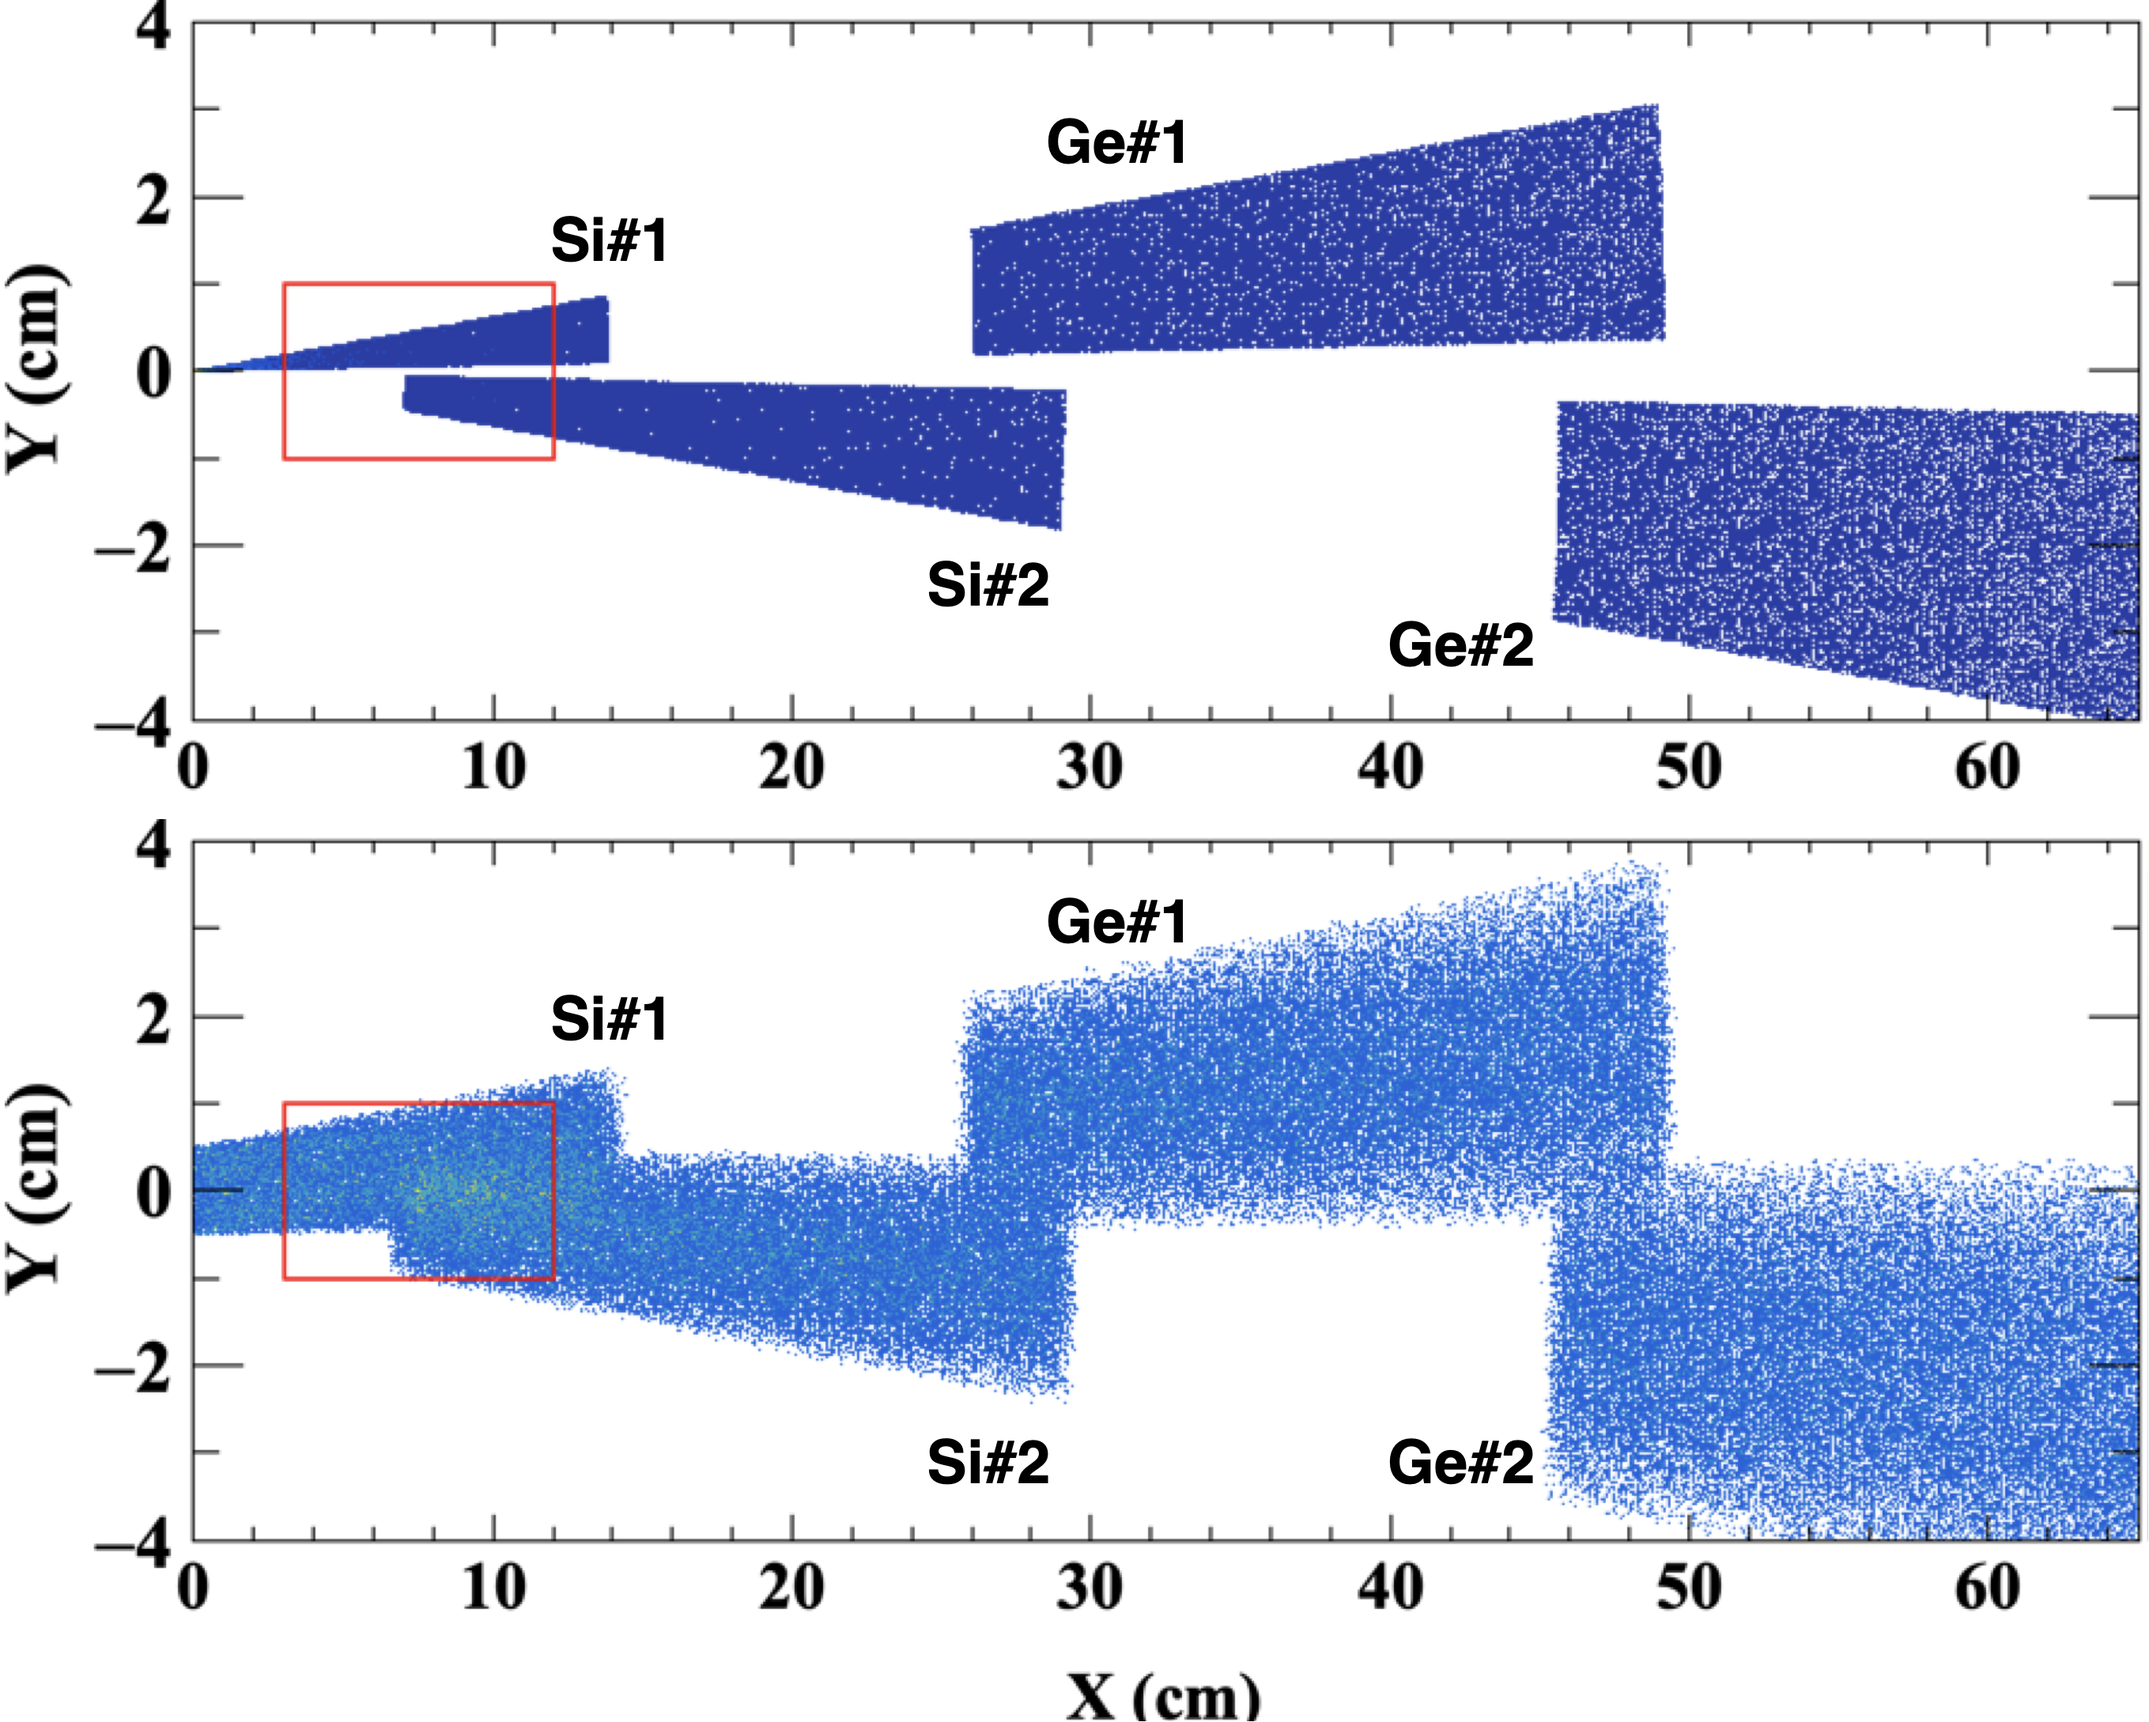
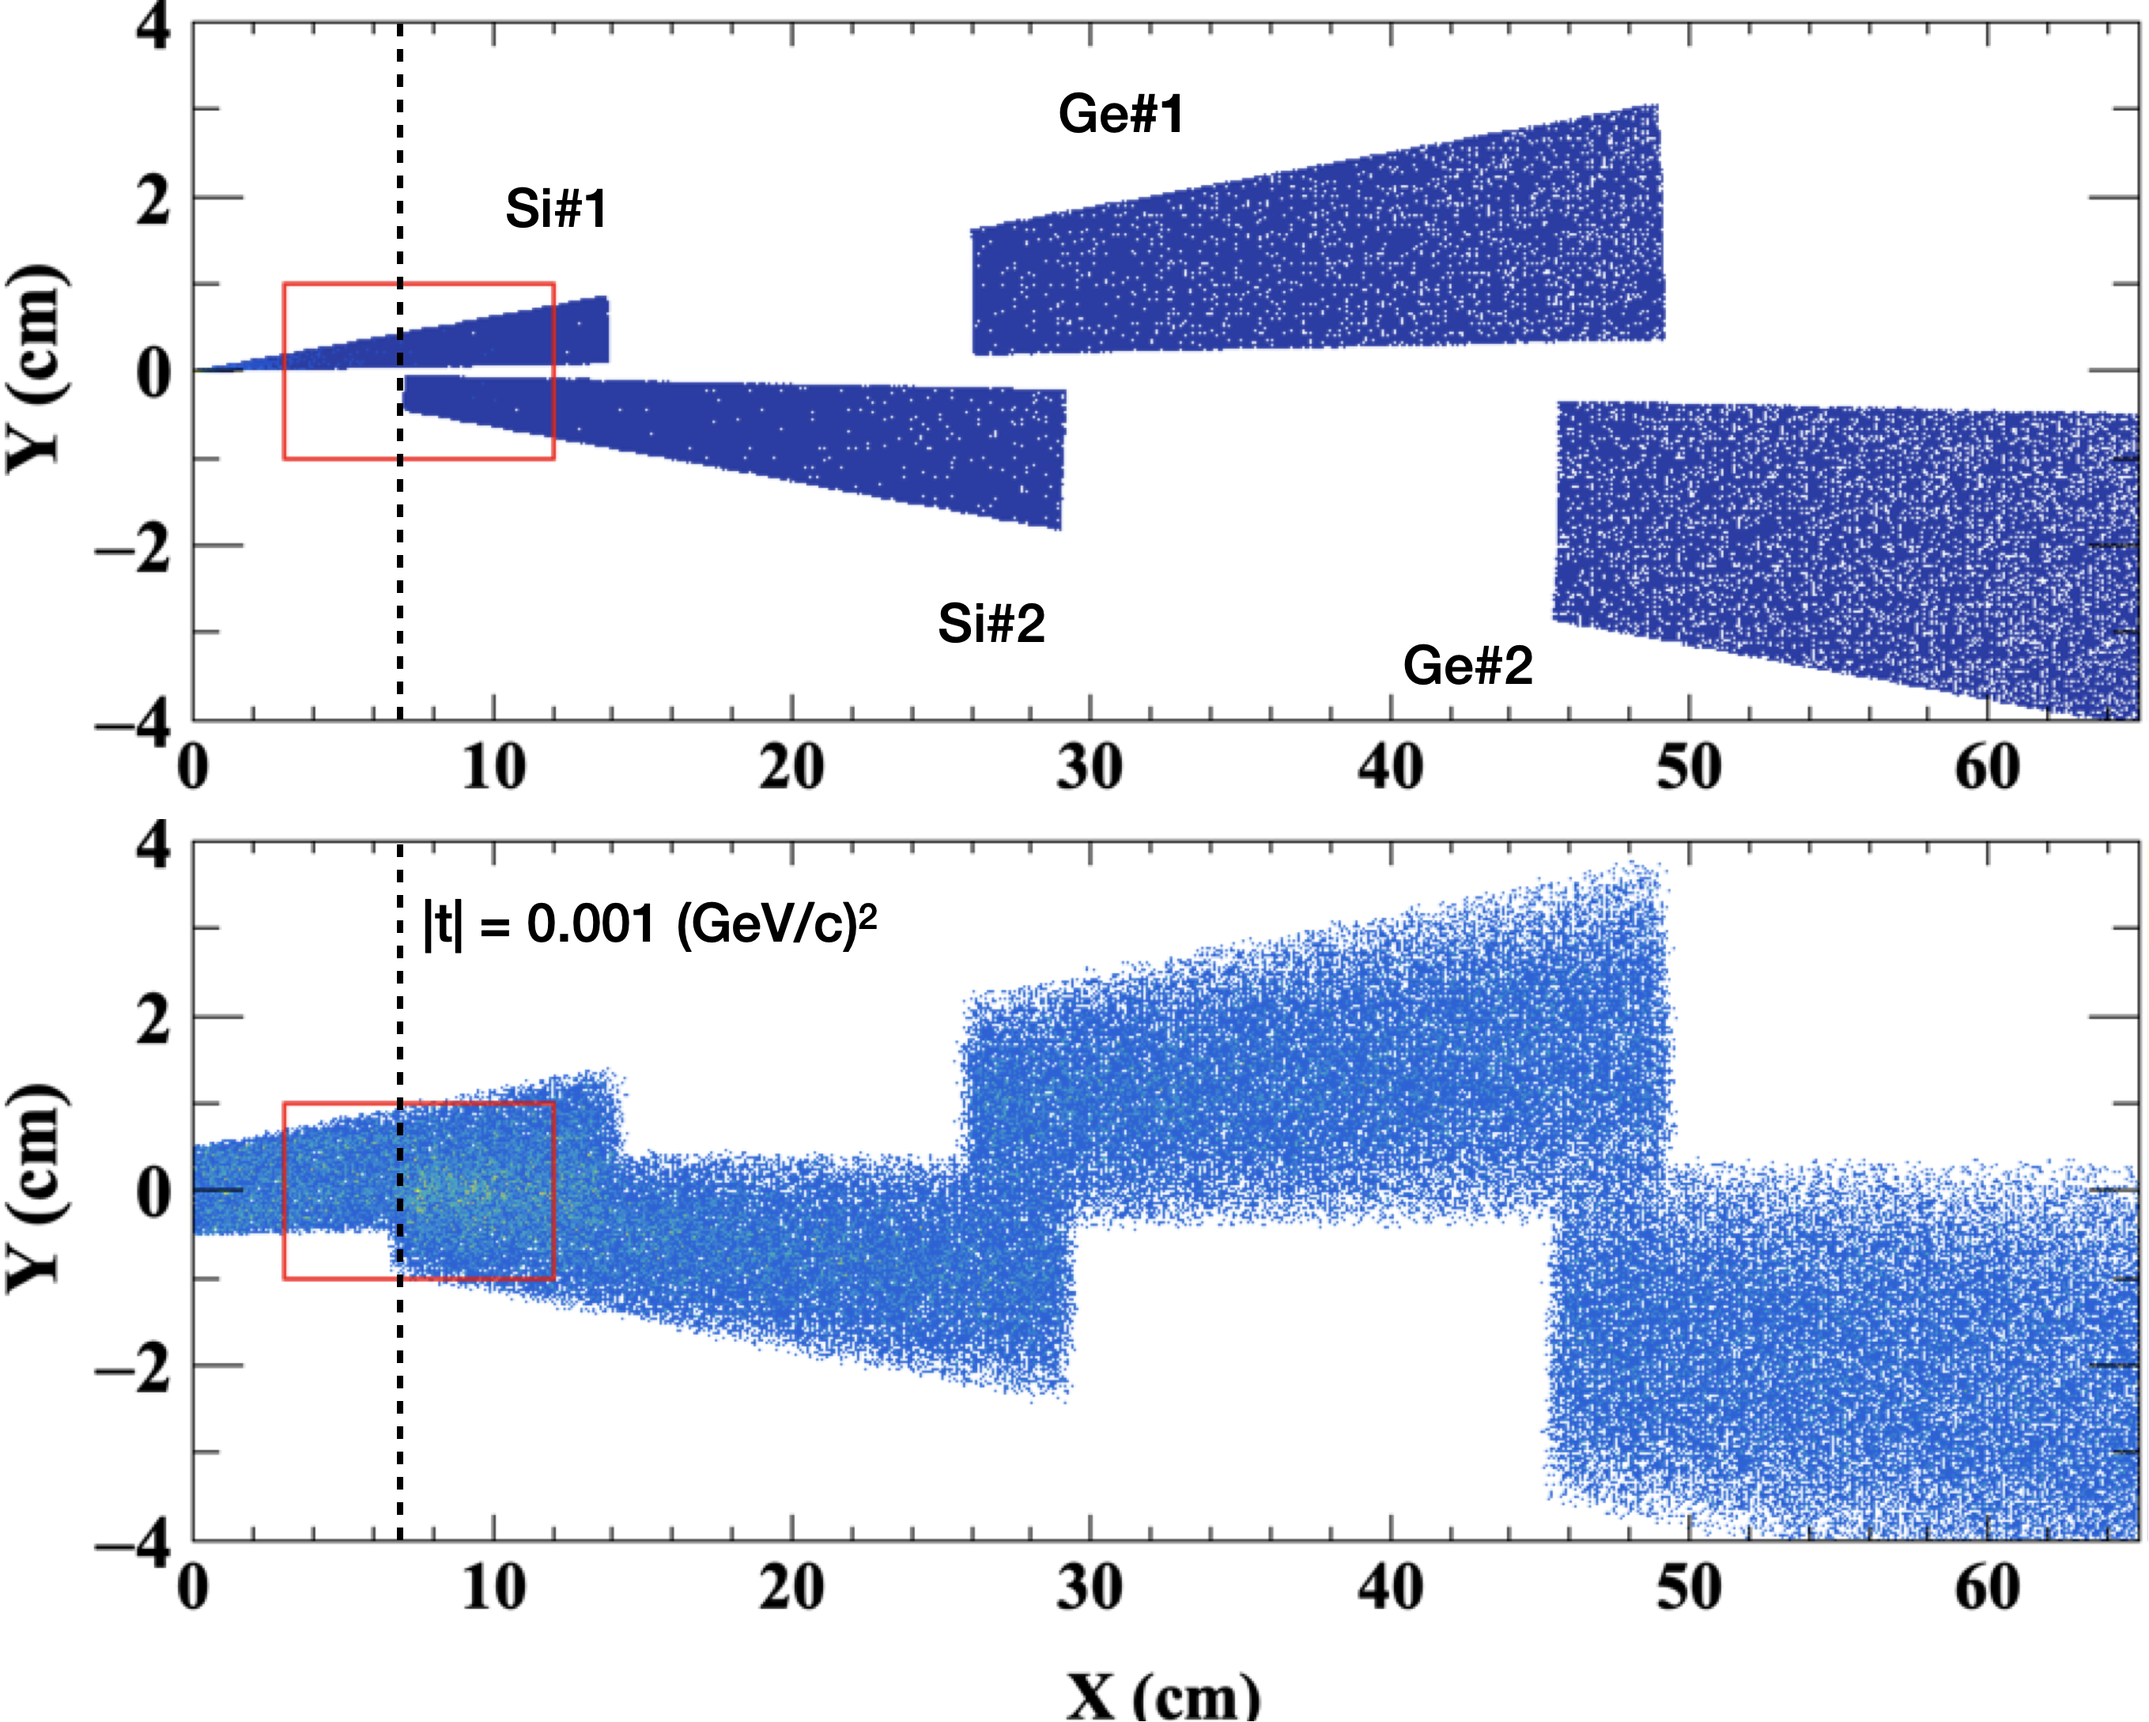
[Modify] sec.2 fwd section

diff --git a/daq/nim.tex b/daq/nim.tex
@@ -285,25 +285,34 @@ More technical information and the detailed performance tests of the recoil dete
 \subsection{Forward detector}
 \label{sec:fwd}
 
-The forward detector aims to detect the elastically scattered beam proton and measure its arrival time.
+The forward detector aims to detect the elastically scattered beam proton in the
+forward direction and measure its arrival time.
+
 As shown in Fig. \ref{fig:setup}, it consists of 8 detector modules, which are grouped into 2 layers and 4 pairs.
 The 4 pairs are installed symmetrically on +X, -X, +Y and -Y axis, with the same
 distance of \SI{3}{\mm} away from the beam pipe center.
 The first layer of each pair are installed \SI{4.6}{\meter} away from the
 beam-target center, and the seperation between the two layer is \SI{20}{\cm}.
-Only the pair on -X is used for conincidence detection.
+Only the pair on -X is used for the conincidence measurement with the recoil detector.
 The other 3 pairs are used for beam position tuning during beam preparation and
 monitoring during the experiment.
-Each module is made of plastic scintillator (Bicron BC-408
-\cite{bc408}) with the dimension $90 (length) \times 20 (width) \times 6
-(thickness) \si{\mm\tothe{3}}$.
-This gives an acceptance of the scattering angle $\SI{0.37}{\degree} < \theta < \SI{1.49}{\degree}$.
-Fig. \ref{fig:forward_acceptance} shows the covered region of the forward detector with an ideal point beam of \SI{2.2}{\momentum}.
+
+Each detector module is made of plastic scintillator BC-408 \cite{bc408} with the dimension $90 (length) \times 20 (width) \times 6
+(thickness)\,\si{\mm\tothe{3}}$.
+% This corresponds to an angular acceptance of $\SI{0.37}{\degree} < \theta < \SI{1.49}{\degree}$.
+The length of the scintillator guarantees the required coverage
+from \SI{0.0008}{\tmom} to \SI{0.001}{\tmom} longitudinally over the COSY energy range.
+However, the cross-sectional coverage, \textit{i.e.}, the coverage of the full length of
+the recoil detector strips, depends not only on the beam energy but also on the
+size of beam profile.
+Fig. \ref{fig:forward_acceptance} shows an example of the impact of beam emittance on the
+effective cross-sectional coverage.
+The fully-covered area on the recoil detector shrinks with the increasing of beam emittance. 
 \begin{figure}[htbp]
   \centering
   \includegraphics[width=0.45\textwidth]{./fwd_acceptance.png}
   \caption{
-    Hit position distribution of the scattering proton on the X-Y plane at \SI{4.6}{\meter}
+    Hit position distribution of the elastically scattered proton on the X-Y plane at \SI{4.6}{\meter}
     from the beam-target center. The results are from the simulation of \SI{2.2}{\momentum}
     $pp$ elasitc scattering with an uniform spherical distribution in the
     center-of-mass reference frame: up) ideal point beam; down) $\SI{10}{\mm}\times\SI{10}{\mm}$ box beam profile.
@@ -311,16 +320,26 @@ Fig. \ref{fig:forward_acceptance} shows the covered region of the forward detect
     % the recoil proton hits one of the recoil sensors.
     The four blue blocks are from the events in which the recoil proton hits one of
     the four recoil sensors.
-    The red square indicates the size of the forward scintillator, i.e. the covered
-    region on the recoil detector by the forward detector.}
+    The red square indicates the dimension of the forward detector scintillator
+    and the vertical dashed line indicates the hit position when $|t| = \SI{0.001}{\tmom}$.}
   \label{fig:forward_acceptance}
 \end{figure}
-Most strips on Si1 and a small fraction of strips on Si2 are totally covered.
-In real situation, it is expected that fewer
-strips will be totally covered with increasing size of beam profile.
+Based simulation study, the current width of the forward detector scintillator guarantees the
+full cross-sectional coverage for $|t| < \SI{0.001}{\tmom}$ as long as the beam profile size is smaller than \SI{7}{\mm}.
 
 The scintillator is readout by the combination of a tapered light guide, a piece of silicone pad and a
 photomultiplier tube (Hamamastu H6900 \cite{hamamatsu}), as shown in Fig. \ref{fig:forward_module} (a).
+Each detector module is integrated with a forward chamber flange for the usage
+in the ultra-high vacuum environment.
+To protect the vacuum condition inside the beam pipe, the following designs are implemented:
+\begin{enumerate}
+\item only the light guide and the scintillator are installed inside the forward chamber, the light guide is glued on the open port of the flange as a feedthrough;
+\item no wrapping and painting material on the surface of the scintillator, the surface is polished to increase light collection efficiency;
+\item a thin aluminum tube with thickness of \SI{100}{\micro\meter} is used as
+  the light shield of the scintillator, the tube is screwed on the flange, see Fig. \ref{fig:forward_module} (b);
+\item two small holes are opened on the side of the aluminum tube to speed up vacuum pumping, see Fig. \ref{fig:forward_module} (c).
+\end{enumerate}
+Other components like the silicone pad, the PMT and the PMT base are installed inside a light-tight case on the other side of the flange as shown in Fig. \ref{fig:forward_module} (c).
 \begin{figure}[htbp]
   \centering
   \includegraphics[width=0.32\textwidth]{./forward_module.png}
@@ -333,16 +352,6 @@ photomultiplier tube (Hamamastu H6900 \cite{hamamatsu}), as shown in Fig. \ref{f
 %   \caption{An example of the cosmic ray energy spectrum obtained by a forward detector module}
 %   \label{fig:forward_mip}
 % \end{figure}
-Each detector module is integrated with a forward chamber flange for the usage
-in the ultra-high vacuum environment.
-To protect the vacuum condition inside the beam pipe, the following designs are implemented:
-\begin{enumerate}
-\item only the light guide and the scintillator are installed inside the forward chamber, the light guide is glued on the open port of the flange as a feedthrough;
-\item no wrapping and painting material on the surface of the scintillator, the surface is polished to increase light collection efficiency;
-\item a thin aluminum tube with thickness of \SI{100}{\micro\meter} is used as the light shield of the scintillator, the tube is screwed on the flange (Fig. \ref{fig:forward_module} (b);
-\item two small holes are opened on the side of the aluminum tube to speed up vacuum pumping, see Fig. \ref{fig:forward_module} (c).
-\end{enumerate}
-Other components like the silicone pad, the PMT and the PMT base are installed inside a light-tight case on the other side of the flange as shown in Fig. \ref{fig:forward_module} (c).
 
 Due to the large gain of PMT, no front-end electronics is needed for the readout of the forward detector.
 The output signal from H6900 is split into two branches: one fed to a
